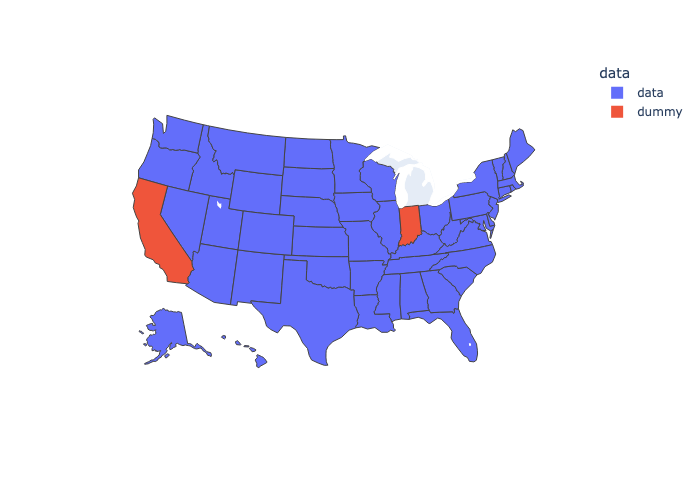
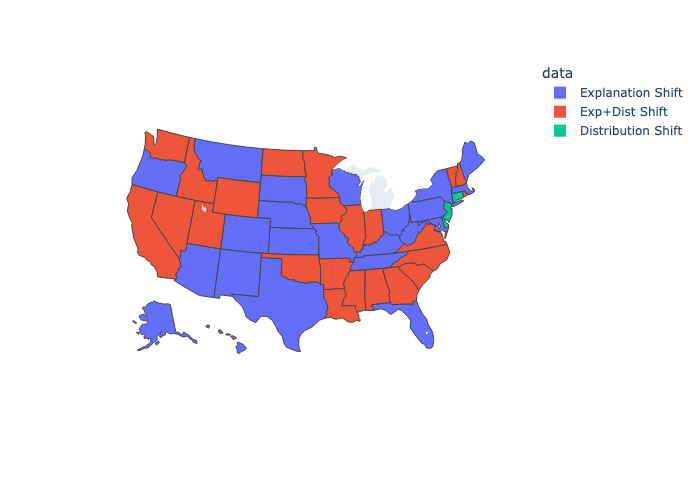
update states figure

Changed region(s): [[0.18, 0.21, 0.78, 0.75], [0.78, 0.12, 0.99, 0.27]]

diff --git a/folks/results/plotStates.py b/folks/results/plotStates.py
@@ -3,10 +3,14 @@ import pandas as pd
 import plotly.express as px
 import matplotlib.pyplot as plt
 from collections import defaultdict
-
+import numpy as np
 from pyparsing import col
 
-df = pd.read_csv("all_results.csv")
+df = pd.read_csv("all_results_performnnce.csv")
+# %%
+df.data = np.where(df.data == "Only Data", "Distribution Shift", df.data)
+df.data = np.where(df.data == "Only Shap", "Explanation Shift", df.data)
+df.data = np.where(df.data == "Data + Shap", "Exp+Dist Shift", df.data)
 # %%
 aux = df[df["error_type"] == "performance"]
 aux = aux[aux["estimator"] == "Linear"]
@@ -49,13 +53,18 @@ best = []
 for state in aux["state"].unique():
     aux_state = aux[(aux["state"] == state) & (aux["estimator"] == "Linear")]
     # Estimators
-    data = aux_state[aux_state["data"] == "Only Data"].error_ood.values
-    shap = aux_state[aux_state["data"] == "Only Shap"].error_ood.values
-    both = aux_state[aux_state["data"] == "Data + Shap"].error_ood.values
+    data = aux_state[aux_state["data"] == "Distribution Shift"].error_ood.values
+    shap = aux_state[aux_state["data"] == "Explanation Shift"].error_ood.values
+    both = aux_state[aux_state["data"] == "Exp+Dist Shift"].error_ood.values
     # Dummy
     aux_state = aux[(aux["state"] == state) & (aux["estimator"] == "Dummy")]
     dummy = aux_state.error_ood.mean()
-    d = {"data": data, "shap": shap, "both": both, "dummy": dummy}
+    d = {
+        "Distribution Shift": data,
+        "Explanation Shift": shap,
+        "Exp+Dist Shift": both,
+        "dummy": dummy,
+    }
 
     best.append([state, min(d, key=d.get)])
 

diff --git a/folks/samplingOOD.py b/folks/samplingOOD.py
@@ -111,12 +111,12 @@ states = [
 data_source = ACSDataSource(survey_year="2018", horizon="1-Year", survey="person")
 
 
-ca_features, ca_labels, ca_group = ACSTravelTime.df_to_numpy(ca_data)
-mi_features, mi_labels, mi_group = ACSTravelTime.df_to_numpy(mi_data)
+ca_features, ca_labels, ca_group = ACSIncome.df_to_numpy(ca_data)
+mi_features, mi_labels, mi_group = ACSIncome.df_to_numpy(mi_data)
 
 ## Conver to DF
-ca_features = pd.DataFrame(ca_features, columns=ACSTravelTime.features)
-mi_features = pd.DataFrame(mi_features, columns=ACSTravelTime.features)
+ca_features = pd.DataFrame(ca_features, columns=ACSIncome.features)
+mi_features = pd.DataFrame(mi_features, columns=ACSIncome.features)
 
 # Modeling
 model = XGBClassifier(verbosity=0, silent=True, use_label_encoder=False, njobs=1)
@@ -134,7 +134,7 @@ preds_mi = model.predict_proba(mi_features)[:, 1]
 ################################
 ####### PARAMETERS #############
 SAMPLE_FRAC = 1_000
-ITERS = 2_000
+ITERS = 1_0
 # Init
 train = defaultdict()
 train_ood = defaultdict()
@@ -195,8 +195,8 @@ for state in tqdm(states, desc="States", position=0):
 
     # Load and process data
     tx_data = data_source.get_data(states=["HI"], download=True)
-    tx_features, tx_labels, tx_group = ACSTravelTime.df_to_numpy(tx_data)
-    tx_features = pd.DataFrame(tx_features, columns=ACSTravelTime.features)
+    tx_features, tx_labels, tx_group = ACSIncome.df_to_numpy(tx_data)
+    tx_features = pd.DataFrame(tx_features, columns=ACSIncome.features)
 
     # Lets add the target to ease the sampling
     tx_full = tx_features.copy()

diff --git a/folks/results/analyzeFairness.py b/folks/results/analyzeFairness.py
@@ -3,21 +3,21 @@ import pandas as pd
 import numpy as np
 
 # %%
-df = pd.read_csv("all_results_travelTime.csv")
+df = pd.read_csv("all_results_performnnce.csv")
 
 df.data = df.data.replace("Only Data", "Data")
 df.data = df.data.replace("Only Shap", "Shap")
 df.data = df.data.replace("Data + Shap", "Shap + Data")
 
-df = df[df["error_type"] == "fairness_two"]
+# df = df[df["error_type"] == "fairness_two"]
 # df = df[df["error_type"] == "fairness_one"]
-# df = df[df["error_type"] == "performance"]
+df = df[df["error_type"] == "performance"]
 df = df.drop(columns="error_te")
 # df = df[df['state']=='WA']
 df = df[
     (df["estimator"] == "Linear")
     | (df["estimator"] == "Dummy")
-    # | (df["estimator"] == "RandomForest")
+    | (df["estimator"] == "RandomForest")
     # | (df["estimator"] == "SVM")
     | (df["estimator"] == "XGBoost")
 ]
